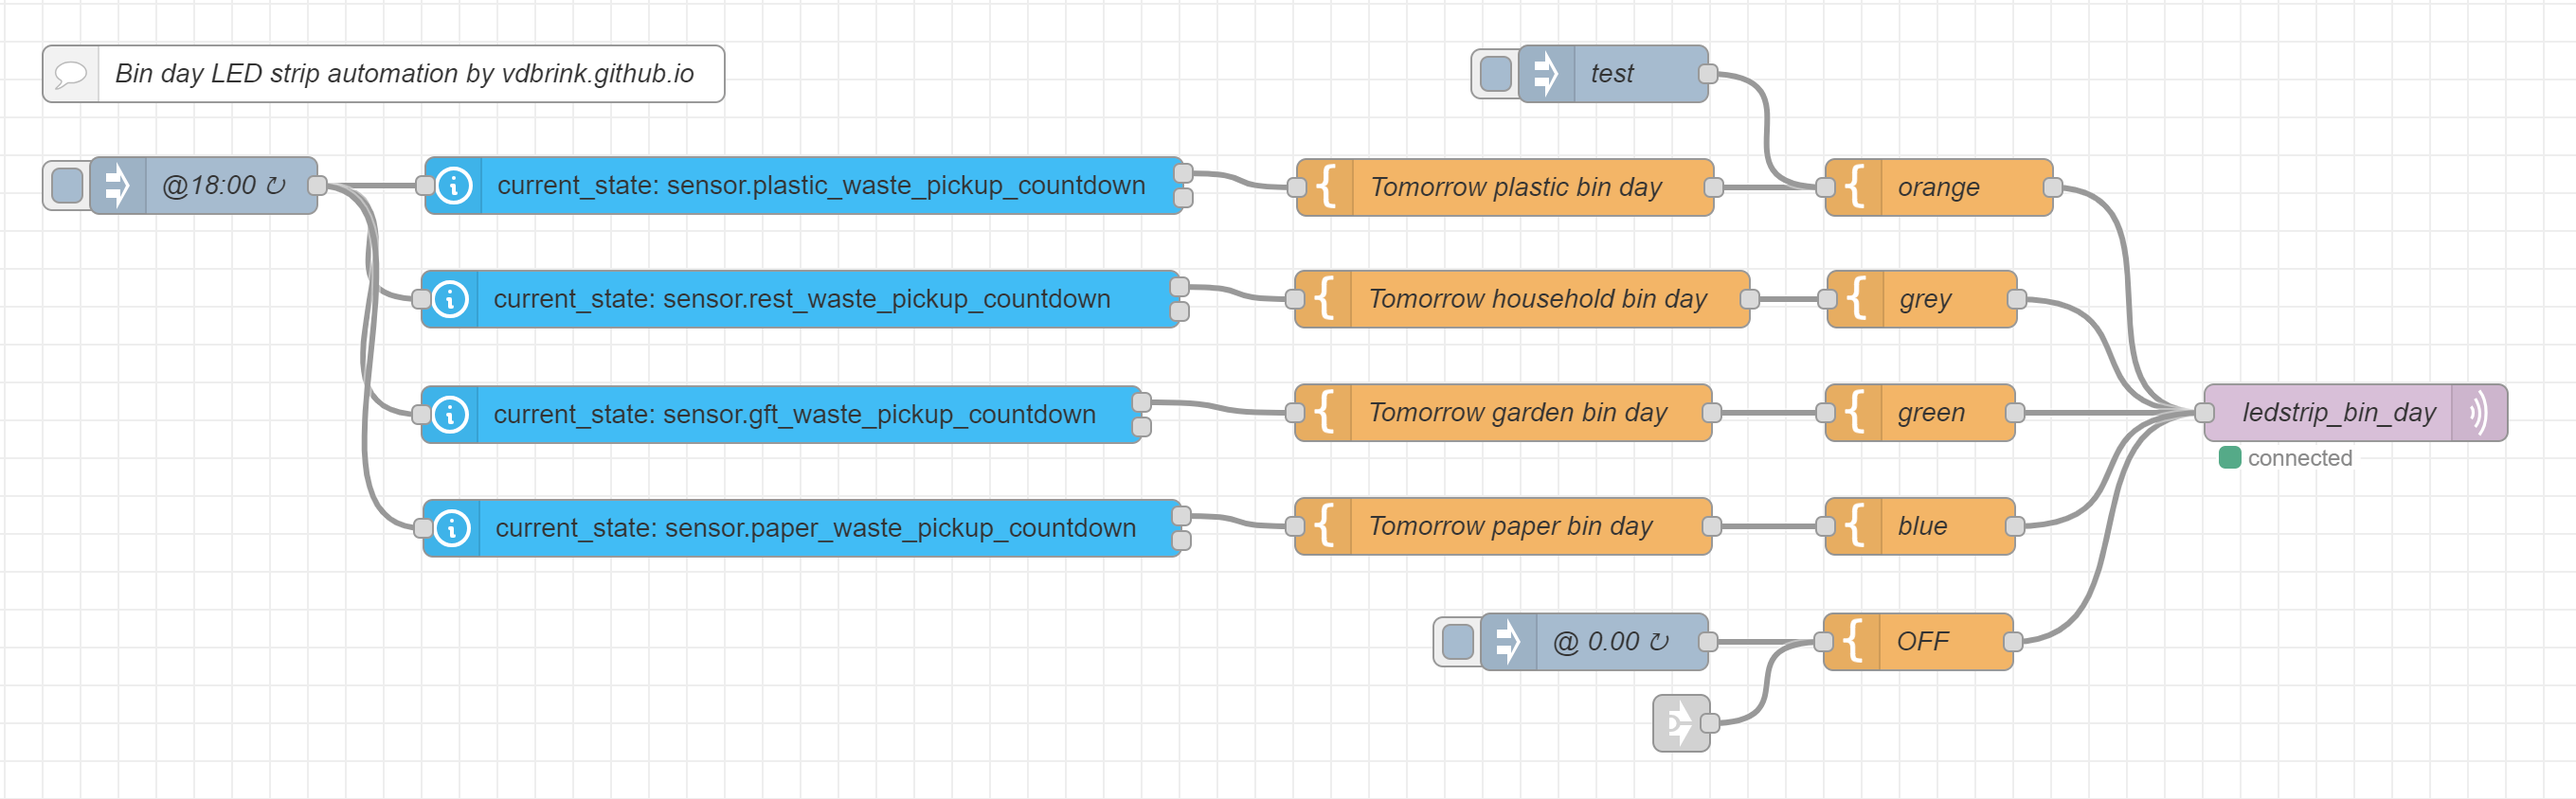
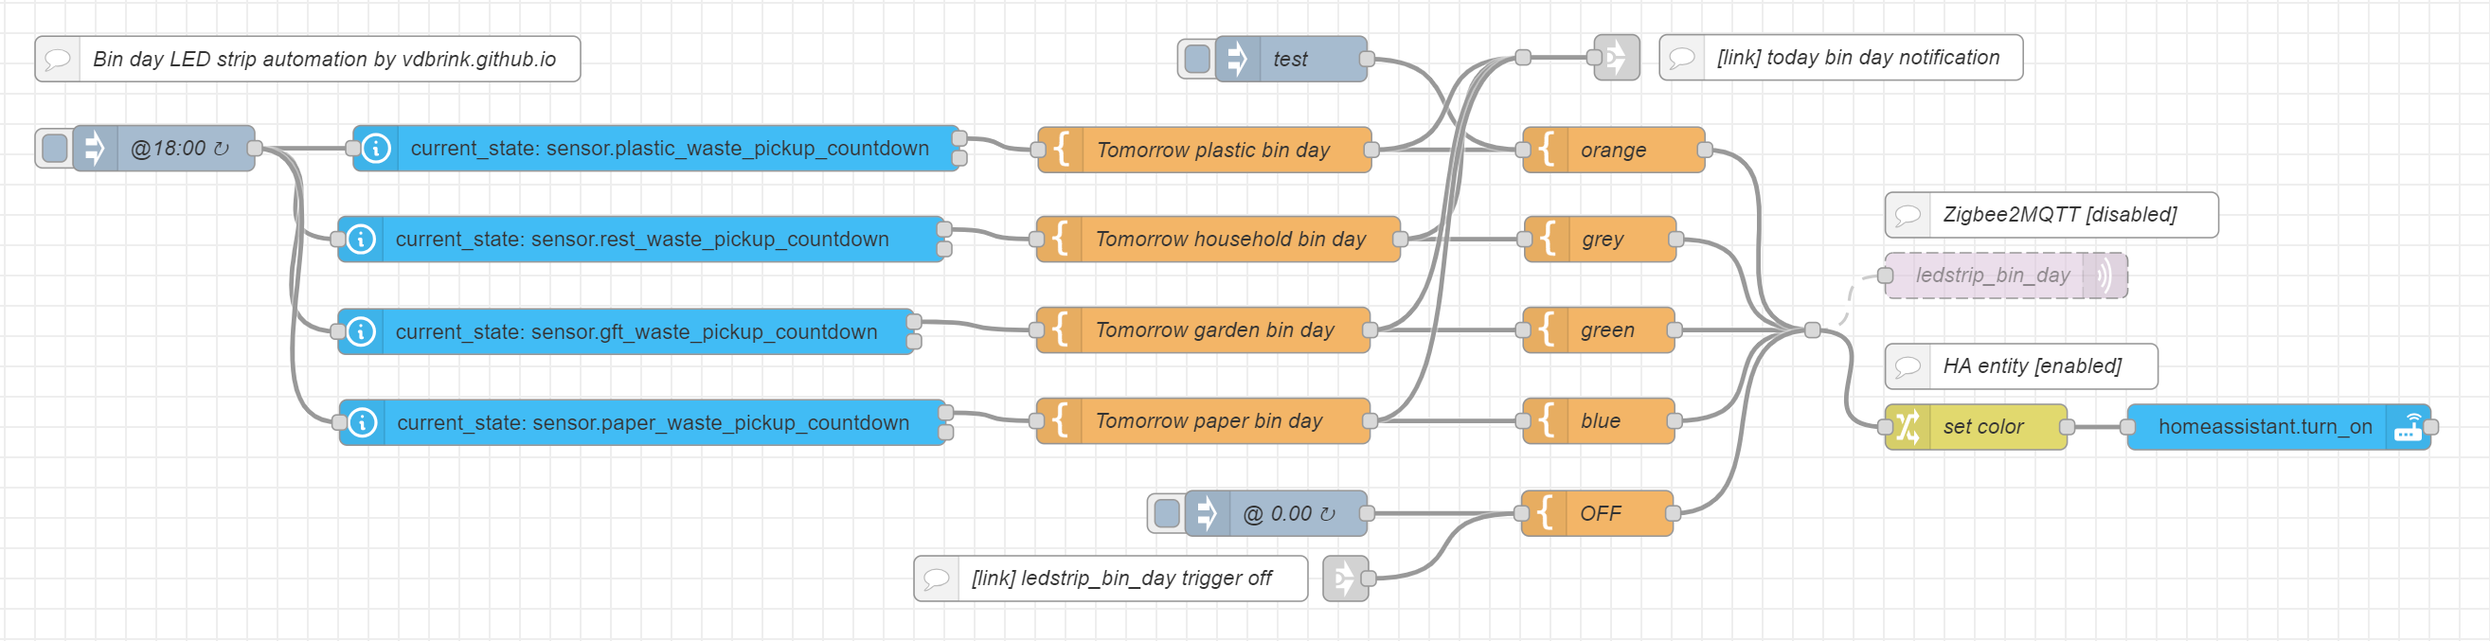
LED strip bin day

diff --git a/projects/bin_day_led_strip_reminder.md b/projects/bin_day_led_strip_reminder.md
@@ -20,28 +20,25 @@ I came up with a RBG LED-strip under the dressoir which indicates which bin must
 <br>
 <br>
 
-<br>
-
 ---
 
 ## Table of Contents
-
 <!-- TOC -->
-  * [Requirements](#requirements)
+  * [Hardware requirements](#hardware-requirements)
+  * [Software requirements](#software-requirements)
   * [Installation](#installation)
     * [Waste collection schedule](#waste-collection-schedule)
-    * [Zigbee RGB LED strip](#zigbee-rgb-led-strip)
-    * [Code to control the LED strip](#code-to-control-the-led-strip)
+    * [Node-RED flow to turn the LED strip on, on bin day](#node-red-flow-to-turn-the-led-strip-on-on-bin-day)
+      * [RGB LED strip colors](#rgb-led-strip-colors)
 <!-- TOC -->
 
 ---
 
-## Requirements
+## Hardware requirements
 
 I have already a running home server with a Zigbee network, that's why I choose for a Zigbee LED strip. This will also
 work for a Wifi/bluetooth/other network type but then the control will also be different.
 
-* Waste collection schedule
 * [Zigbee RGB 5m LED strip](https://s.click.aliexpress.com/e/_ookcWte) it's available in different versions:
     * Indoor no waterproof (IP20) / Outdoor waterproof (IP65)
     * 5 / 10 meter
@@ -49,7 +46,21 @@ work for a Wifi/bluetooth/other network type but then the control will also be d
 
     <a href="https://s.click.aliexpress.com/e/_ookcWte" target="_blanc">
     <img src="images_bin_day/zigbee_rgb_led_strip.webp" height="250px" alt="LED strip"></a>
-* Code to control the LED strip
+
+---
+
+## Software requirements
+
+* Home Assistant
+  * HACS [Afvalbeheer](../homeassistant/homeassistant_hacs_afvalbeheer) integration or other bin day schedule
+  * Add the [custom countdown helper entities](../homeassistant/homeassistant_hacs_afvalbeheer#custom-helper-entities-days-count-down)
+  * LED strip entity
+* Node-RED
+  * Add and setup HA integration in Node-RED [node-red-contrib-home-assistant-websocket](../node-red/node-red_home-assistant#initial-setup)
+  * [Node-RED script](#node-red-script) from this page
+    * Choose to use the HA entity or Zigbee2MQTT node. Enable the correct one.
+    * [Optional] Add to the flow to send a notification (to a phone and/or speaker)
+    * [Optional] Add a condition to the flow to turn the light off (earlier than at 0:00)
 
 ---
 
@@ -66,40 +77,50 @@ improved it, so I have the days sorted by the pickup days by creating custom cou
 
 ---
 
-### Zigbee RGB LED strip
+### Node-RED flow to turn the LED strip on, on bin day
 
-We have four bin types and each bin has his own color.\
-I tried to use the color of the bin to light up.
+I use Node-RED with [Home Assistant integration](../node-red/node-red_home-assistant) to get read and control Home Assistant entities.
 
-These are my types and the HEX color code I use.
+This is the Node-RED flow you can use.\
+I control my Zigbee devices via Zigbee2MQTT myself but disabled this node in this example. I also added the same Home Assistant light entity `ledstrip_bin_day` here. Choose which one you want to use, and set the correct entity name, both methods will work.
 
-| Bin type  | Bin color | HEX color code |
-|-----------|-----------|----------------|
-| Garden    | green     | #008018        |
-| Household | gray      | #959595        |   
-| Paper     | blue      | #0000F9        |
-| Plastic   | orange    | #FFA52C        |
+On top, I added an inject-node where you can click on to test if the lights goes on.
 
----
+At the bottom, there is an inject-node which get triggered at 0:00 to disable the light again.
+There is also a link-node with the value `ledstrip_bin_day trigger off`. You can trigger this when you have another trigger to turn off the light. In my case:\
+WHEN the light is on AND the garden gate is opened THEN this ledstrip light goes off again. (This is not in this Node-RED example added.)\
+Everybody has his own condition, you can also turn if off with a toggle on your dashboard.
 
-### Code to control the LED strip
-
-#### Home Assistant helper countdown entities -> Zigbee2MQTT device
-
-I use Node-RED with [Home Assistant integration](../node-red/node-red_home-assistant) to control read Home Assistant entities.
-
-My Zigbee devices are controlled via MQTT.
-
-This is my Node-RED flow.
-
+<a href="images_bin_day/bin_day_node_red_flow.png">
 <img src="images_bin_day/bin_day_node_red_flow.png" alt="bin day - LED strip - Node RED flow" width="800px">
+</a>
+
+
+
+<a name="node-red-script"></a>
 
 ```yaml
 {% raw %}
-[{"id":"fc4e52ba0fd37927","type":"tab","label":"Bin day","disabled":false,"info":"","env":[]},{"id":"e3786b816eed4c0a","type":"comment","z":"fc4e52ba0fd37927","name":"Bin day LED strip automation by vdbrink.github.io","info":"","x":220,"y":57,"wires":[]},{"id":"31dd9a158d5fd251","type":"template","z":"fc4e52ba0fd37927","name":"Tomorrow plastic bin day","field":"payload","fieldType":"msg","format":"handlebars","syntax":"mustache","template":"Tomorrow plastic bin day","output":"str","x":812,"y":117,"wires":[["5c13a68ef2a01034"]]},{"id":"4c2db0f9d2a8d3c5","type":"inject","z":"fc4e52ba0fd37927","name":"@18:00","props":[{"p":"payload"},{"p":"topic","vt":"str"}],"repeat":"","crontab":"00 18 * * *","once":false,"onceDelay":0.1,"topic":"","payload":"","payloadType":"date","x":125,"y":116,"wires":[["8d61c5da0ffd8ba0","c467b33c0e9eccb3","ee2e5b086d92bb03","c9dcedb72852fd42"]]},{"id":"8d61c5da0ffd8ba0","type":"api-current-state","z":"fc4e52ba0fd37927","name":"","server":"969e9e50.88897","version":3,"outputs":2,"halt_if":"2","halt_if_type":"num","halt_if_compare":"lt","entity_id":"sensor.rest_waste_pickup_countdown","state_type":"str","blockInputOverrides":false,"outputProperties":[{"property":"payload","propertyType":"msg","value":"","valueType":"entityState"},{"property":"data","propertyType":"msg","value":"","valueType":"entity"}],"for":"0","forType":"num","forUnits":"minutes","override_topic":false,"state_location":"payload","override_payload":"msg","entity_location":"data","override_data":"msg","x":440,"y":176,"wires":[["2fb90f2d8e97561a"],[]]},{"id":"2fb90f2d8e97561a","type":"template","z":"fc4e52ba0fd37927","name":"Tomorrow household bin day","field":"payload","fieldType":"msg","format":"handlebars","syntax":"mustache","template":"Tomorrow household bin day","output":"str","x":821,"y":176,"wires":[["a64dc81fde8e9413"]]},{"id":"ee2e5b086d92bb03","type":"api-current-state","z":"fc4e52ba0fd37927","name":"","server":"969e9e50.88897","version":3,"outputs":2,"halt_if":"2","halt_if_type":"num","halt_if_compare":"lt","entity_id":"sensor.gft_waste_pickup_countdown","state_type":"str","blockInputOverrides":false,"outputProperties":[{"property":"payload","propertyType":"msg","value":"","valueType":"entityState"},{"property":"data","propertyType":"msg","value":"","valueType":"entity"}],"for":"0","forType":"num","forUnits":"minutes","override_topic":false,"state_location":"payload","override_payload":"msg","entity_location":"data","override_data":"msg","x":430,"y":237,"wires":[["16e3a70fa22a1cb2"],[]]},{"id":"16e3a70fa22a1cb2","type":"template","z":"fc4e52ba0fd37927","name":"Tomorrow garden bin day","field":"payload","fieldType":"msg","format":"handlebars","syntax":"mustache","template":"Tomorrow garden bin day","output":"str","x":811,"y":236,"wires":[["12468fdfeaf547d1"]]},{"id":"c9dcedb72852fd42","type":"api-current-state","z":"fc4e52ba0fd37927","name":"","server":"969e9e50.88897","version":3,"outputs":2,"halt_if":"2","halt_if_type":"num","halt_if_compare":"lt","entity_id":"sensor.paper_waste_pickup_countdown","state_type":"str","blockInputOverrides":false,"outputProperties":[{"property":"payload","propertyType":"msg","value":"","valueType":"entityState"},{"property":"data","propertyType":"msg","value":"","valueType":"entity"}],"for":"0","forType":"num","forUnits":"minutes","override_topic":false,"state_location":"payload","override_payload":"msg","entity_location":"data","override_data":"msg","x":441,"y":297,"wires":[["6e83f87c97a7230f"],[]]},{"id":"6e83f87c97a7230f","type":"template","z":"fc4e52ba0fd37927","name":"Tomorrow paper bin day","field":"payload","fieldType":"msg","format":"handlebars","syntax":"mustache","template":"Tomorrow paper bin day","output":"str","x":811,"y":296,"wires":[["2f5494f5c3a5aba0"]]},{"id":"a631b9d84c3fc7e5","type":"mqtt out","z":"fc4e52ba0fd37927","name":"ledstrip_bin_day","topic":"zigbee2mqtt/ledstrip_bin_day/set","qos":"0","retain":"false","respTopic":"","contentType":"","userProps":"","correl":"","expiry":"","broker":"7527d055.ed7e2","x":1261,"y":236,"wires":[]},{"id":"2f5494f5c3a5aba0","type":"template","z":"fc4e52ba0fd37927","name":"blue","field":"payload","fieldType":"msg","format":"handlebars","syntax":"mustache","template":"{\"color\":{\"hex\":\"#0000F9\"},\"state\": \"ON\"}","output":"json","x":1031,"y":296,"wires":[["a631b9d84c3fc7e5"]]},{"id":"12468fdfeaf547d1","type":"template","z":"fc4e52ba0fd37927","name":"green","field":"payload","fieldType":"msg","format":"handlebars","syntax":"mustache","template":"{\"color\":{\"hex\":\"#008018\"},\"state\": \"ON\"}","output":"json","x":1031,"y":236,"wires":[["a631b9d84c3fc7e5"]]},{"id":"a64dc81fde8e9413","type":"template","z":"fc4e52ba0fd37927","name":"grey","field":"payload","fieldType":"msg","format":"handlebars","syntax":"mustache","template":"{\"color\":{\"hex\":\"#959595\"},\"state\": \"ON\"}","output":"json","x":1032,"y":176,"wires":[["a631b9d84c3fc7e5"]]},{"id":"5c13a68ef2a01034","type":"template","z":"fc4e52ba0fd37927","name":"orange","field":"payload","fieldType":"msg","format":"handlebars","syntax":"mustache","template":"{\"color\":{\"hex\":\"#FFA52C\"}, \"state\": \"ON\"}","output":"json","x":1041,"y":117,"wires":[["a631b9d84c3fc7e5"]]},{"id":"15dd3111d2397762","type":"template","z":"fc4e52ba0fd37927","name":"OFF","field":"payload","fieldType":"msg","format":"handlebars","syntax":"mustache","template":"{\"state\": \"OFF\"}","output":"json","x":1030,"y":357,"wires":[["a631b9d84c3fc7e5"]]},{"id":"f77f773c86c1e577","type":"inject","z":"fc4e52ba0fd37927","name":"@ 0.00","props":[{"p":"payload"},{"p":"topic","vt":"str"}],"repeat":"","crontab":"00 00 * * *","once":false,"onceDelay":0.1,"topic":"","payload":"","payloadType":"date","x":859,"y":357,"wires":[["15dd3111d2397762"]]},{"id":"d194c54c1adfc2f5","type":"inject","z":"fc4e52ba0fd37927","name":"test","props":[{"p":"payload"},{"p":"topic","vt":"str"}],"repeat":"","crontab":"","once":false,"onceDelay":0.1,"topic":"","payload":"","payloadType":"date","x":869,"y":57,"wires":[["5c13a68ef2a01034"]]},{"id":"a4517022c3ccc6fb","type":"link in","z":"fc4e52ba0fd37927","name":"ledstrip_bin_day trigger off","links":[],"x":905,"y":400,"wires":[["15dd3111d2397762"]]},{"id":"c467b33c0e9eccb3","type":"api-current-state","z":"fc4e52ba0fd37927","name":"","server":"969e9e50.88897","version":3,"outputs":2,"halt_if":"1","halt_if_type":"num","halt_if_compare":"is","entity_id":"sensor.plastic_waste_pickup_countdown","state_type":"str","blockInputOverrides":false,"outputProperties":[{"property":"payload","propertyType":"msg","value":"","valueType":"entityState"},{"property":"data","propertyType":"msg","value":"","valueType":"entity"}],"for":"0","forType":"num","forUnits":"minutes","override_topic":false,"state_location":"payload","override_payload":"msg","entity_location":"data","override_data":"msg","x":442,"y":116,"wires":[["31dd9a158d5fd251"],[]]},{"id":"969e9e50.88897","type":"server","name":"Home Assistant","version":5,"addon":false,"rejectUnauthorizedCerts":true,"ha_boolean":"y|yes|true|on|home|open","connectionDelay":false,"cacheJson":true,"heartbeat":false,"heartbeatInterval":"30","areaSelector":"friendlyName","deviceSelector":"friendlyName","entitySelector":"friendlyName","statusSeparator":"at: ","statusYear":"hidden","statusMonth":"short","statusDay":"numeric","statusHourCycle":"h23","statusTimeFormat":"h:m","enableGlobalContextStore":true},{"id":"7527d055.ed7e2","type":"mqtt-broker","name":"","broker":"mosquitto","port":"1883","tls":"bbaa4676.58e4c8","clientid":"node-red-client","autoConnect":true,"usetls":false,"protocolVersion":"5","keepalive":"60","cleansession":false,"autoUnsubscribe":true,"birthTopic":"","birthQos":"0","birthPayload":"","birthMsg":{},"closeTopic":"","closePayload":"","closeMsg":{},"willTopic":"","willQos":"0","willPayload":"","willMsg":{},"userProps":"","sessionExpiry":""},{"id":"bbaa4676.58e4c8","type":"tls-config","name":"","cert":"","key":"","ca":"","certname":"m2mqtt_srv.crt","keyname":"m2mqtt_srv.key","caname":"m2mqtt_ca.crt","servername":"","verifyservercert":false}]
+  [{"id":"fc4e52ba0fd37927","type":"tab","label":"Bin day","disabled":false,"info":"","env":[]},{"id":"9ab30526aa1b3a0b","type":"junction","z":"fc4e52ba0fd37927","x":1213,"y":236,"wires":[["a631b9d84c3fc7e5","37ef856290750e57"]]},{"id":"1f9950b8b250926b","type":"junction","z":"fc4e52ba0fd37927","x":1022,"y":56,"wires":[["b342dd131ef54b1b"]]},{"id":"e3786b816eed4c0a","type":"comment","z":"fc4e52ba0fd37927","name":"Bin day LED strip automation by vdbrink.github.io","info":"","x":220,"y":57,"wires":[]},{"id":"31dd9a158d5fd251","type":"template","z":"fc4e52ba0fd37927","name":"Tomorrow plastic bin day","field":"payload","fieldType":"msg","format":"handlebars","syntax":"mustache","template":"Tomorrow plastic bin day","output":"str","x":812,"y":117,"wires":[["5c13a68ef2a01034","1f9950b8b250926b"]]},{"id":"4c2db0f9d2a8d3c5","type":"inject","z":"fc4e52ba0fd37927","name":"@18:00","props":[{"p":"payload"},{"p":"topic","vt":"str"}],"repeat":"","crontab":"00 18 * * *","once":false,"onceDelay":0.1,"topic":"","payload":"","payloadType":"date","x":125,"y":116,"wires":[["8d61c5da0ffd8ba0","c467b33c0e9eccb3","ee2e5b086d92bb03","c9dcedb72852fd42"]]},{"id":"8d61c5da0ffd8ba0","type":"api-current-state","z":"fc4e52ba0fd37927","name":"","server":"969e9e50.88897","version":3,"outputs":2,"halt_if":"2","halt_if_type":"num","halt_if_compare":"lt","entity_id":"sensor.rest_waste_pickup_countdown","state_type":"str","blockInputOverrides":false,"outputProperties":[{"property":"payload","propertyType":"msg","value":"","valueType":"entityState"},{"property":"data","propertyType":"msg","value":"","valueType":"entity"}],"for":"0","forType":"num","forUnits":"minutes","override_topic":false,"state_location":"payload","override_payload":"msg","entity_location":"data","override_data":"msg","x":440,"y":176,"wires":[["2fb90f2d8e97561a"],[]]},{"id":"2fb90f2d8e97561a","type":"template","z":"fc4e52ba0fd37927","name":"Tomorrow household bin day","field":"payload","fieldType":"msg","format":"handlebars","syntax":"mustache","template":"Tomorrow household bin day","output":"str","x":821,"y":176,"wires":[["a64dc81fde8e9413","1f9950b8b250926b"]]},{"id":"ee2e5b086d92bb03","type":"api-current-state","z":"fc4e52ba0fd37927","name":"","server":"969e9e50.88897","version":3,"outputs":2,"halt_if":"2","halt_if_type":"num","halt_if_compare":"lt","entity_id":"sensor.gft_waste_pickup_countdown","state_type":"str","blockInputOverrides":false,"outputProperties":[{"property":"payload","propertyType":"msg","value":"","valueType":"entityState"},{"property":"data","propertyType":"msg","value":"","valueType":"entity"}],"for":"0","forType":"num","forUnits":"minutes","override_topic":false,"state_location":"payload","override_payload":"msg","entity_location":"data","override_data":"msg","x":430,"y":237,"wires":[["16e3a70fa22a1cb2"],[]]},{"id":"16e3a70fa22a1cb2","type":"template","z":"fc4e52ba0fd37927","name":"Tomorrow garden bin day","field":"payload","fieldType":"msg","format":"handlebars","syntax":"mustache","template":"Tomorrow garden bin day","output":"str","x":811,"y":236,"wires":[["12468fdfeaf547d1","1f9950b8b250926b"]]},{"id":"c9dcedb72852fd42","type":"api-current-state","z":"fc4e52ba0fd37927","name":"","server":"969e9e50.88897","version":3,"outputs":2,"halt_if":"2","halt_if_type":"num","halt_if_compare":"lt","entity_id":"sensor.paper_waste_pickup_countdown","state_type":"str","blockInputOverrides":false,"outputProperties":[{"property":"payload","propertyType":"msg","value":"","valueType":"entityState"},{"property":"data","propertyType":"msg","value":"","valueType":"entity"}],"for":"0","forType":"num","forUnits":"minutes","override_topic":false,"state_location":"payload","override_payload":"msg","entity_location":"data","override_data":"msg","x":441,"y":297,"wires":[["6e83f87c97a7230f"],[]]},{"id":"6e83f87c97a7230f","type":"template","z":"fc4e52ba0fd37927","name":"Tomorrow paper bin day","field":"payload","fieldType":"msg","format":"handlebars","syntax":"mustache","template":"Tomorrow paper bin day","output":"str","x":811,"y":296,"wires":[["2f5494f5c3a5aba0","1f9950b8b250926b"]]},{"id":"a631b9d84c3fc7e5","type":"mqtt out","z":"fc4e52ba0fd37927","d":true,"name":"ledstrip_bin_day","topic":"zigbee2mqtt/ledstrip_bin_day/set","qos":"0","retain":"false","respTopic":"","contentType":"","userProps":"","correl":"","expiry":"","broker":"7527d055.ed7e2","x":1341,"y":200,"wires":[]},{"id":"2f5494f5c3a5aba0","type":"template","z":"fc4e52ba0fd37927","name":"blue","field":"payload","fieldType":"msg","format":"handlebars","syntax":"mustache","template":"{\"color\":{\"hex\":\"#0000F9\",\"rgb\": [0, 0, 249]},\"state\": \"ON\"}","output":"json","x":1072,"y":296,"wires":[["9ab30526aa1b3a0b"]]},{"id":"12468fdfeaf547d1","type":"template","z":"fc4e52ba0fd37927","name":"green","field":"payload","fieldType":"msg","format":"handlebars","syntax":"mustache","template":"{\"color\":{\"hex\":\"#008018\",\"rgb\": [0, 128, 24]},\"state\": \"ON\"}","output":"json","x":1072,"y":236,"wires":[["9ab30526aa1b3a0b"]]},{"id":"a64dc81fde8e9413","type":"template","z":"fc4e52ba0fd37927","name":"grey","field":"payload","fieldType":"msg","format":"handlebars","syntax":"mustache","template":"{\"color\":{\"hex\":\"#959595\",\"rgb\": [149, 149, 149]},\"state\": \"ON\"}","output":"json","x":1073,"y":176,"wires":[["9ab30526aa1b3a0b"]]},{"id":"5c13a68ef2a01034","type":"template","z":"fc4e52ba0fd37927","name":"orange","field":"payload","fieldType":"msg","format":"handlebars","syntax":"mustache","template":"{\"color\":{\"hex\":\"#FFA52C\",\"rgb\": [255, 165, 44]}, \"state\": \"ON\"}","output":"json","x":1082,"y":117,"wires":[["9ab30526aa1b3a0b"]]},{"id":"15dd3111d2397762","type":"template","z":"fc4e52ba0fd37927","name":"OFF","field":"payload","fieldType":"msg","format":"handlebars","syntax":"mustache","template":"{\"state\": \"OFF\"}","output":"json","x":1071,"y":357,"wires":[["9ab30526aa1b3a0b"]]},{"id":"f77f773c86c1e577","type":"inject","z":"fc4e52ba0fd37927","name":"@ 0.00","props":[{"p":"payload"},{"p":"topic","vt":"str"}],"repeat":"","crontab":"00 00 * * *","once":false,"onceDelay":0.1,"topic":"","payload":"","payloadType":"date","x":859,"y":357,"wires":[["15dd3111d2397762"]]},{"id":"d194c54c1adfc2f5","type":"inject","z":"fc4e52ba0fd37927","name":"test","props":[{"p":"payload"},{"p":"topic","vt":"str"}],"repeat":"","crontab":"","once":false,"onceDelay":0.1,"topic":"","payload":"","payloadType":"date","x":869,"y":57,"wires":[["5c13a68ef2a01034"]]},{"id":"a4517022c3ccc6fb","type":"link in","z":"fc4e52ba0fd37927","name":"ledstrip_bin_day trigger off","links":[],"x":905,"y":400,"wires":[["15dd3111d2397762"]]},{"id":"c467b33c0e9eccb3","type":"api-current-state","z":"fc4e52ba0fd37927","name":"","server":"969e9e50.88897","version":3,"outputs":2,"halt_if":"1","halt_if_type":"num","halt_if_compare":"is","entity_id":"sensor.plastic_waste_pickup_countdown","state_type":"str","blockInputOverrides":false,"outputProperties":[{"property":"payload","propertyType":"msg","value":"","valueType":"entityState"},{"property":"data","propertyType":"msg","value":"","valueType":"entity"}],"for":"0","forType":"num","forUnits":"minutes","override_topic":false,"state_location":"payload","override_payload":"msg","entity_location":"data","override_data":"msg","x":450,"y":116,"wires":[["31dd9a158d5fd251"],[]]},{"id":"11bbdcaa841ea5c5","type":"api-call-service","z":"fc4e52ba0fd37927","name":"","server":"969e9e50.88897","version":5,"debugenabled":false,"domain":"homeassistant","service":"turn_on","areaId":[],"deviceId":[],"entityId":[],"data":"{}","dataType":"json","mergeContext":"","mustacheAltTags":false,"outputProperties":[],"queue":"none","x":1521,"y":300,"wires":[[]]},{"id":"a59dbe9fc5b20f3b","type":"comment","z":"fc4e52ba0fd37927","name":"Zigbee2MQTT [disabled]","info":"","x":1371,"y":160,"wires":[]},{"id":"6c76a40a756275d9","type":"comment","z":"fc4e52ba0fd37927","name":"HA entity [enabled]","info":"","x":1351,"y":260,"wires":[]},{"id":"37ef856290750e57","type":"change","z":"fc4e52ba0fd37927","name":"set color","rules":[{"t":"set","p":"payload","pt":"msg","to":"{\t    \"domain\": \"homeassistant\",\t    \"service\": $lowercase($join([\"turn_\", payload.state])),\t    \"target\": {\t        \"entity_id\": [\"light.ledstrip_bin_day\"]\t        },\t    \"data\": {\t        \"rgb_color\": payload.color.rgb\t    }\t}","tot":"jsonata"}],"action":"","property":"","from":"","to":"","reg":false,"x":1321,"y":300,"wires":[["11bbdcaa841ea5c5"]]},{"id":"b342dd131ef54b1b","type":"link out","z":"fc4e52ba0fd37927","name":"today bin day notification","mode":"link","links":[],"x":1084,"y":56,"wires":[]},{"id":"12417354a6857616","type":"comment","z":"fc4e52ba0fd37927","name":"[link] ledstrip_bin_day trigger off","info":"","x":750,"y":400,"wires":[]},{"id":"c3d8030e440980d1","type":"comment","z":"fc4e52ba0fd37927","name":"[link] today bin day notification","info":"","x":1232,"y":56,"wires":[]},{"id":"969e9e50.88897","type":"server","name":"Home Assistant","version":5,"addon":false,"rejectUnauthorizedCerts":true,"ha_boolean":"y|yes|true|on|home|open","connectionDelay":false,"cacheJson":true,"heartbeat":false,"heartbeatInterval":"30","areaSelector":"friendlyName","deviceSelector":"friendlyName","entitySelector":"friendlyName","statusSeparator":"at: ","statusYear":"hidden","statusMonth":"short","statusDay":"numeric","statusHourCycle":"h23","statusTimeFormat":"h:m","enableGlobalContextStore":true},{"id":"7527d055.ed7e2","type":"mqtt-broker","name":"","broker":"mosquitto","port":"1883","tls":"bbaa4676.58e4c8","clientid":"node-red-client","autoConnect":true,"usetls":false,"protocolVersion":"5","keepalive":"60","cleansession":false,"autoUnsubscribe":true,"birthTopic":"","birthQos":"0","birthPayload":"","birthMsg":{},"closeTopic":"","closePayload":"","closeMsg":{},"willTopic":"","willQos":"0","willPayload":"","willMsg":{},"userProps":"","sessionExpiry":""},{"id":"bbaa4676.58e4c8","type":"tls-config","name":"","cert":"","key":"","ca":"","certname":"m2mqtt_srv.crt","keyname":"m2mqtt_srv.key","caname":"m2mqtt_ca.crt","servername":"","verifyservercert":false}]
 {% endraw %}
 ```
 
+#### RGB LED strip colors
+
+I have four bin types and each bin has his own color.\
+I tried to use the same color to light up.
+
+These are my bin types and the RGB and HEX color codes I use.
+
+| Bin type  | Bin color | RGB color     | HEX color code |
+|-----------|-----------|---------------|----------------|
+| Garden    | green     | 0,   128,  24 | #008018        |
+| Household | gray      | 149, 149, 149 | #959595        |   
+| Paper     | blue      | 0,     0, 249 | #0000F9        |
+| Plastic   | orange    | 255, 165,  44 | #FFA52C        |
+
+<br>
+<br>
 
 ---
 
